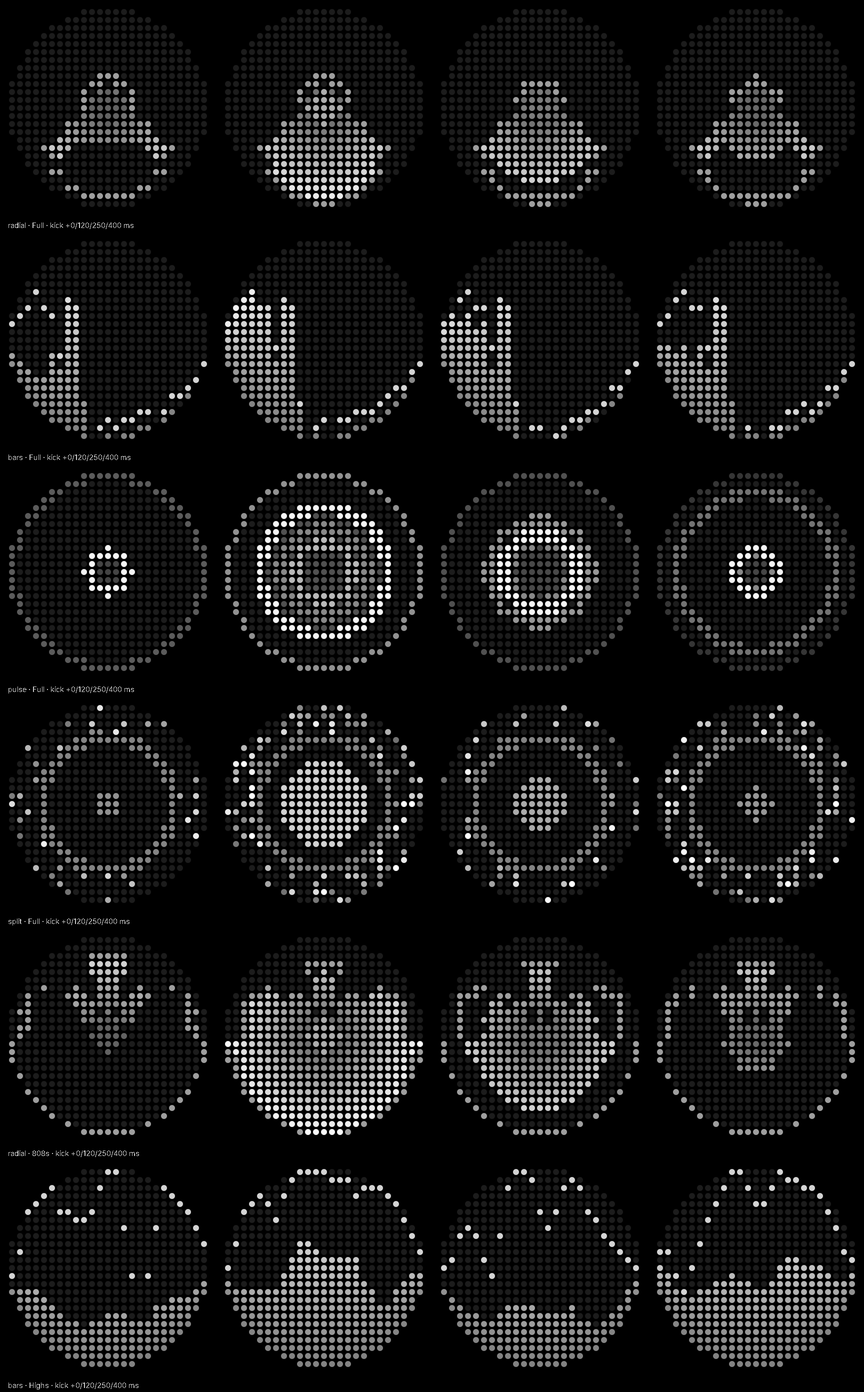
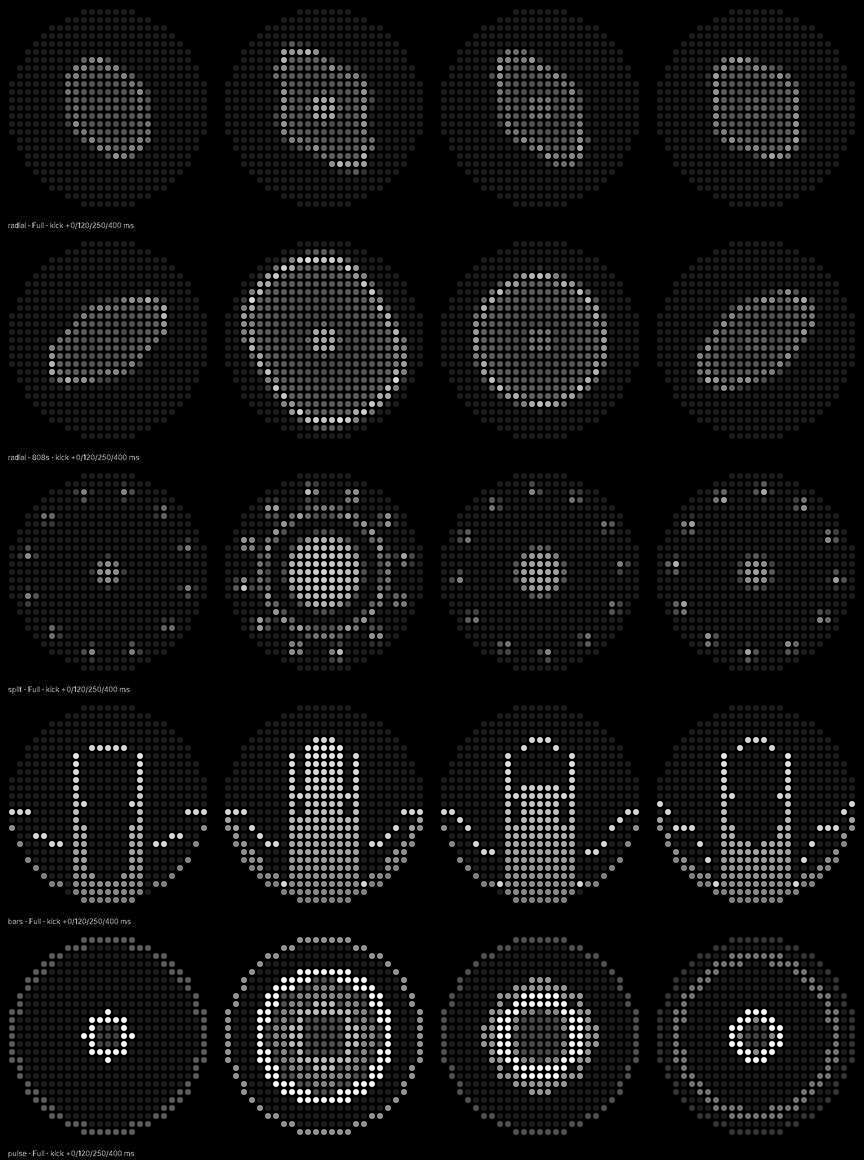
GlyphWave 0.3.2: redesigned Radial and Bass-Treble modes
- anti-aliased drawing helpers (dot, splat) on MatrixCanvas
- Radial: 4-fold mirrored breathing flower, smoothed + cosine-
  interpolated contour, bright AA rim, beat core, slow rotation
- Bass-Treble: AA bass disc, beat shockwave rings, 12 orbiting treble
  dots driven by high-band slices (replaces random sparkle)

Claude-Session: https://claude.ai/code/session_01QF7PW8uE3KsjWBHH34KqDg

diff --git a/glyphwave/core/src/main/kotlin/dev/nicodiprospero/glyphwave/modes/BassTrebleMode.kt b/glyphwave/core/src/main/kotlin/dev/nicodiprospero/glyphwave/modes/BassTrebleMode.kt
@@ -4,54 +4,91 @@ import dev.nicodiprospero.glyphwave.engine.AudioFrame
 import dev.nicodiprospero.glyphwave.engine.MediaState
 import dev.nicodiprospero.glyphwave.glyph.MatrixCanvas
 import dev.nicodiprospero.glyphwave.glyph.Polar
+import kotlin.math.PI
+import kotlin.math.abs
+import kotlin.math.cos
+import kotlin.math.sin
 
 /**
- * 4 · Bass · Treble (owner request after Phase 2): lows and highs get separate zones so a hi-hat never
- * "moves" the kick visual.
- *  - Centre disc: bass (≈30–150 Hz, kick / 808) sets the radius; beats punch the brightness.
- *  - Thin middle ring: mids, dim.
- *  - Outer zone: highs (4–16 kHz) as sparkle — the share of lit LEDs follows the treble energy, the pattern
- *    reshuffles ~15×/s so hats read as shimmer.
+ * 4 · Bass · Treble — lows and highs in separate, structured zones so a hi-hat never moves the kick visual.
+ *  - Centre: an anti-aliased disc whose radius follows the bass (kick / 808), punched brighter on beats.
+ *  - Every beat launches a shockwave ring from the disc edge outward.
+ *  - Rim: 12 dots orbiting at r≈10.2 (anti-aliased, grow with their treble slice). Each dot follows one slice of the 4–16 kHz range (mirrored), so hats
+ *    light the ring in a pattern, and the orbit speeds up with treble energy.
+ *
+ * v2 after owner feedback ("treble is ugly"): v1's random per-LED sparkle read as noise, not music, and the
+ * hard-edged disc looked pixelated (DECISIONS.md D-029).
  */
 class BassTrebleMode(private val polar: Polar) : MatrixMode {
     override val id = "split"
     override val name = "Bass · Treble"
 
-    private val hash = FloatArray(polar.length * polar.length) { i -> hash01(i, 0) }
-    private var lastBucket = -1L
+    private val highs = BandView(DOTS / 2)
+    private val waveRadius = FloatArray(MAX_WAVES)
+    private val waveLevel = FloatArray(MAX_WAVES)
+    private var lastBeatSeen = Long.MIN_VALUE
+    private var lastTMs = -1L
+    private var orbit = 0f // turns
 
     override fun render(audio: AudioFrame, media: MediaState, tMs: Long, canvas: MatrixCanvas) {
-        val bucket = tMs / 66
-        if (bucket != lastBucket) {
-            lastBucket = bucket
-            for (i in hash.indices) hash[i] = hash01(i, bucket.toInt())
-        }
-        val discR = 1.2f + audio.bass * (INNER_LIMIT - 1.2f)
+        val dt = if (lastTMs < 0) 0f else ((tMs - lastTMs) / 1000f).coerceIn(0f, 0.1f)
+        lastTMs = tMs
+        highs.update(audio, BandFocus.HIGHS, tMs)
+
+        val discR = 1.3f + audio.bass * (DISC_MAX - 1.3f)
         val punch = beatEnvelope(audio, tMs)
+
+        if (audio.lastBeatNanos != lastBeatSeen && audio.lastBeatNanos > 0) {
+            lastBeatSeen = audio.lastBeatNanos
+            var slot = 0
+            for (w in 1 until MAX_WAVES) if (waveLevel[w] < waveLevel[slot]) slot = w
+            waveRadius[slot] = discR
+            waveLevel[slot] = 0.55f + 0.45f * audio.beatStrength
+        }
+        for (w in 0 until MAX_WAVES) if (waveLevel[w] > 0f) {
+            waveRadius[w] += WAVE_SPEED * dt
+            waveLevel[w] -= dt * 2.2f
+            if (waveRadius[w] > ORBIT_R - 0.8f) waveLevel[w] = 0f
+        }
+
+        // Disc + shockwaves, per cell, anti-aliased.
         val px = canvas.pixels
         for (i in px.indices) {
             val r = polar.radius[i]
-            val v = when {
-                r <= discR -> 0.45f + 0.35f * audio.bass + 0.2f * punch
-                r < INNER_LIMIT -> 0f
-                r < OUTER_START -> 0.08f + 0.35f * audio.mid
-                hash[i] < audio.high * 0.85f -> 0.35f + 0.65f * hash01(i, 977)
-                else -> 0f
+            var v = 0f
+            val cover = (discR + 0.5f - r).coerceIn(0f, 1f)
+            if (cover > 0f) v = cover * (0.5f + 0.25f * audio.bass + 0.25f * punch) * (1f - 0.25f * (r / (discR + 0.5f)))
+            for (w in 0 until MAX_WAVES) {
+                if (waveLevel[w] <= 0f) continue
+                val ring = 1f - abs(r - waveRadius[w]) / 0.9f
+                if (ring > 0f) v = maxOf(v, ring * waveLevel[w] * 0.8f)
             }
             px[i] = canvas.toValue(v)
         }
+
+        // Treble orbit: dots glide (sub-pixel splats), speed follows the highs.
+        orbit = (orbit + dt * (ORBIT_BASE + ORBIT_GAIN * audio.high)) % 1f
+        val c = polar.centre
+        for (d in 0 until DOTS) {
+            val band = if (d < DOTS / 2) d else DOTS - 1 - d // mirrored: lowest highs face each other
+            val value = highs.values[band]
+            val level = 0.35f + 0.65f * value
+            val a = 2.0 * PI * (d.toFloat() / DOTS + orbit)
+            canvas.dot(c + ORBIT_R * sin(a).toFloat(), c - ORBIT_R * cos(a).toFloat(), 0.6f + 0.4f * value, level)
+        }
+    }
+
+    override fun reset() {
+        waveLevel.fill(0f); lastTMs = -1L
     }
 
     private companion object {
-        const val INNER_LIMIT = 7.5f
-        const val OUTER_START = 9f
-
-        /** Deterministic 0..1 hash, allocation-free. */
-        fun hash01(i: Int, seed: Int): Float {
-            var h = i * 374_761_393 + seed * 668_265_263
-            h = (h xor (h ushr 13)) * 1_274_126_177
-            h = h xor (h ushr 16)
-            return (h and 0xFFFF) / 65_535f
-        }
+        const val DOTS = 12
+        const val ORBIT_R = 10.2f
+        const val ORBIT_BASE = 0.03f // turns/s when quiet
+        const val ORBIT_GAIN = 0.25f // extra turns/s at full treble
+        const val DISC_MAX = 6.5f
+        const val MAX_WAVES = 3
+        const val WAVE_SPEED = 18f // cells/s
     }
 }

diff --git a/glyphwave/core/src/main/kotlin/dev/nicodiprospero/glyphwave/modes/RadialSpectrumMode.kt b/glyphwave/core/src/main/kotlin/dev/nicodiprospero/glyphwave/modes/RadialSpectrumMode.kt
@@ -5,10 +5,16 @@ import dev.nicodiprospero.glyphwave.engine.MediaState
 import dev.nicodiprospero.glyphwave.glyph.MatrixCanvas
 import dev.nicodiprospero.glyphwave.glyph.Polar
 import kotlin.math.abs
+import kotlin.math.floor
 
 /**
- * 1 · Radial spectrum: bands around the circle (mirrored left/right, bass at the bottom, highs at the
- * top), bars growing outward from a small core; falling peak dots as a ring segment; the core flashes on beats.
+ * 1 · Radial — a "breathing flower". The spectrum is mapped around the circle with 4-fold mirror symmetry
+ * (bass on the vertical axis, highs on the horizontal one) so the shape stays balanced whatever the genre,
+ * interpolated smoothly between bands, slowly rotating. Drawn anti-aliased: a bright rim at the contour,
+ * a faint fill inside, and a small core that flashes on beats.
+ *
+ * v2 after owner feedback ("radial is ugly"): v1 used hard 24-wedge sectors with bass at the bottom only,
+ * which looked like a jagged, lopsided blob on 25×25 (DECISIONS.md D-029).
  */
 class RadialSpectrumMode(private val polar: Polar) : MatrixMode {
     override val id = "radial"
@@ -16,34 +22,60 @@ class RadialSpectrumMode(private val polar: Polar) : MatrixMode {
 
     var focus = BandFocus.FULL
     private val view = BandView(BANDS)
-    private val coreRadius = 2.2f
+    private val profile = FloatArray(BANDS)
+    private val coreRadius = 2.0f
+    private val baseRadius = 4.0f
+    private val maxExtent = polar.maxRadius - 0.6f
 
     override fun render(audio: AudioFrame, media: MediaState, tMs: Long, canvas: MatrixCanvas) {
         view.update(audio, focus, tMs)
-        val span = polar.maxRadius - coreRadius
+        // Shape = a circle that breathes with the overall level + gentle lobes from the spectrum.
+        // Bands are smoothed with their neighbours (mirror at the ends) so the contour has no spikes.
+        var mean = 0f
+        for (b in 0 until BANDS) mean += view.values[b]
+        mean /= BANDS
+        for (b in 0 until BANDS) {
+            val l = view.values[if (b == 0) 1 else b - 1]
+            val r = view.values[if (b == BANDS - 1) BANDS - 2 else b + 1]
+            val smooth = 0.25f * l + 0.5f * view.values[b] + 0.25f * r
+            profile[b] = (BREATH * mean + LOBES * (smooth - mean)).coerceIn(0f, 1f)
+        }
         val flash = beatEnvelope(audio, tMs)
+        val rotation = (tMs % ROTATION_MS) / ROTATION_MS.toFloat()
         val px = canvas.pixels
         for (i in px.indices) {
             val r = polar.radius[i]
-            if (r < coreRadius) {
-                canvas.pixels[i] = canvas.toValue(0.25f + 0.75f * flash)
-                continue
-            }
-            // Bass at the bottom (turn 0.5) → highs at the top (turn 0), mirrored left/right.
-            val t = polar.turn[i]
-            val s = abs(t - 0.5f) * 2f
-            val b = (s * BANDS).toInt().coerceIn(0, BANDS - 1)
-            val extent = coreRadius + view.values[b] * span
-            val peakR = coreRadius + view.peaks[b] * span
-            px[i] = when {
-                r <= extent -> canvas.toValue(0.35f + 0.65f * ((r - coreRadius) / span).coerceIn(0f, 1f))
-                abs(r - peakR) < 0.55f && view.peaks[b] > 0.04f -> canvas.toValue(0.55f)
-                else -> 0
-            }
+            var t = polar.turn[i] + rotation
+            if (t >= 1f) t -= 1f
+            // 4-fold mirror: 0 on the vertical axis → 1 on the horizontal axis.
+            val q = (t * 4f) % 2f
+            val s = if (q < 1f) q else 2f - q
+            val p = s * (BANDS - 1)
+            val b0 = floor(p).toInt().coerceAtMost(BANDS - 2)
+            val f = p - b0
+            // Cosine interpolation between band points → rounded lobes.
+            val w = (1f - kotlin.math.cos(f * Math.PI.toFloat())) * 0.5f
+            val value = profile[b0] * (1 - w) + profile[b0 + 1] * w
+            val extent = baseRadius + value * (maxExtent - baseRadius)
+
+            var v = 0f
+            // Faint fill inside the contour, slightly brighter outward.
+            if (r < extent) v = 0.10f + 0.18f * (r / extent)
+            // Bright anti-aliased rim on the contour.
+            val rim = 1f - abs(r - extent) / RIM_WIDTH
+            if (rim > 0f) v = maxOf(v, rim * (0.45f + 0.55f * value))
+            // Core: anti-aliased disc, flashes on beats.
+            val core = (coreRadius + 0.5f - r).coerceIn(0f, 1f)
+            if (core > 0f) v = maxOf(v, core * (0.2f + 0.8f * flash))
+            px[i] = canvas.toValue(v)
         }
     }
 
     private companion object {
-        const val BANDS = 12 // per side (mirrored) — wide enough wedges to read on 25×25
+        const val BANDS = 6 // per quarter; smoothed + interpolated, so the contour is round with soft lobes
+        const val BREATH = 0.9f // how much the overall level grows the circle
+        const val LOBES = 0.8f // how much band differences deform it
+        const val RIM_WIDTH = 1.1f
+        const val ROTATION_MS = 24_000L // one slow turn every 24 s
     }
 }

diff --git a/glyphwave/core/src/main/kotlin/dev/nicodiprospero/glyphwave/glyph/MatrixCanvas.kt b/glyphwave/core/src/main/kotlin/dev/nicodiprospero/glyphwave/glyph/MatrixCanvas.kt
@@ -39,6 +39,35 @@ class MatrixCanvas(val length: Int, val maxValue: Int = MatrixSpec.MAX_VALUE) {
         }
     }
 
+    /**
+     * Anti-aliased point: spreads [level] over the 4 cells around the sub-pixel position (x, y) with
+     * bilinear weights, keeping the brighter value per cell. Makes moving dots glide instead of jump.
+     */
+    fun splat(x: Float, y: Float, level: Float) {
+        val x0 = kotlin.math.floor(x).toInt()
+        val y0 = kotlin.math.floor(y).toInt()
+        val fx = x - x0
+        val fy = y - y0
+        max(x0, y0, level * (1 - fx) * (1 - fy))
+        max(x0 + 1, y0, level * fx * (1 - fy))
+        max(x0, y0 + 1, level * (1 - fx) * fy)
+        max(x0 + 1, y0 + 1, level * fx * fy)
+    }
+
+    /** Anti-aliased filled dot of [radius] cells centred at sub-pixel (cx, cy); keeps the brighter value. */
+    fun dot(cx: Float, cy: Float, radius: Float, level: Float) {
+        val x0 = kotlin.math.floor(cx - radius - 1).toInt()
+        val x1 = kotlin.math.ceil(cx + radius + 1).toInt()
+        val y0 = kotlin.math.floor(cy - radius - 1).toInt()
+        val y1 = kotlin.math.ceil(cy + radius + 1).toInt()
+        for (y in y0..y1) for (x in x0..x1) {
+            val dx = x - cx
+            val dy = y - cy
+            val cover = (radius + 0.5f - kotlin.math.sqrt(dx * dx + dy * dy)).coerceIn(0f, 1f)
+            if (cover > 0f) max(x, y, level * cover)
+        }
+    }
+
     fun copyTo(out: IntArray) = pixels.copyInto(out)
 
     fun toValue(level: Float): Int = (level.coerceIn(0f, 1f) * maxValue).roundToInt()

diff --git a/glyphwave/DECISIONS.md b/glyphwave/DECISIONS.md
@@ -292,3 +292,15 @@ What the logs showed and what changed:
 | Partial beat sync on hip-hop | "Energy > 1.4 × 1 s average": sustained 808s raise the average, so kicks stop standing out | **Bass spectral flux** (rise in log magnitude over 30–150 Hz bins) with an **adaptive threshold** (mean + 1.5·std over 1 s), a 180 ms refractory period, and the bass-dominance gate kept. New tests: overlapping 60 Hz polling, and sustained 808 notes (one beat per note) |
 | `slow frame 12–16 ms` on every frame, on the **main thread** | Render + `setMatrixFrame` IPC on the UI thread, competing with Compose | Render loop on its own `GlyphWave-render` HandlerThread (display priority), fixed-rate drift-free scheduling. Render and push timings are logged separately (`RENDER … fps · render avg · push avg`) every 5 s |
 | Bars "only on one side" | Bass on the left, where columns are short on a round matrix. Music's natural high-frequency roll-off makes the right side look dead | Bars **mirrored**: bass in the centre (tallest) columns, highs toward both edges. **Spectral tilt compensation of +3 dB/octave** around 1 kHz for every mode. Band release 180 → 120 ms for snappier motion |
+
+### D-029 · Radial and Bass · Treble redesigned (owner: "bars 10× better, treble and radial ugly")
+Root causes on a 25×25 matrix: hard on/off edges (jagged staircases), and no structure (Radial was lopsided
+with bass at the bottom only; the treble was random per-LED sparkle that read as noise).
+- **Anti-aliasing everywhere:** `MatrixCanvas.dot()` / `splat()` give edge LEDs partial brightness by coverage, so
+  round shapes look round and moving dots glide.
+- **Radial v2, a "breathing flower":** 4-fold mirror (bass on the vertical axis, highs on the horizontal one), 6 points
+  per quarter, smoothed with their neighbours and cosine-interpolated. The shape is a circle that breathes with the overall
+  level (0.9) plus gentle lobes from band differences (0.8). Bright anti-aliased rim, faint fill, beat-flash core,
+  one slow rotation every 24 s. v1's 24 hard wedges and the intermediate spiky-star version were rejected on the PNG previews.
+- **Bass · Treble v2:** anti-aliased bass disc, a **shockwave ring per beat**, and **12 treble dots orbiting** at r≈10.2. Each
+  dot follows one slice of 4–16 kHz (mirrored), grows and brightens with it, and the orbit speeds up with treble energy.
